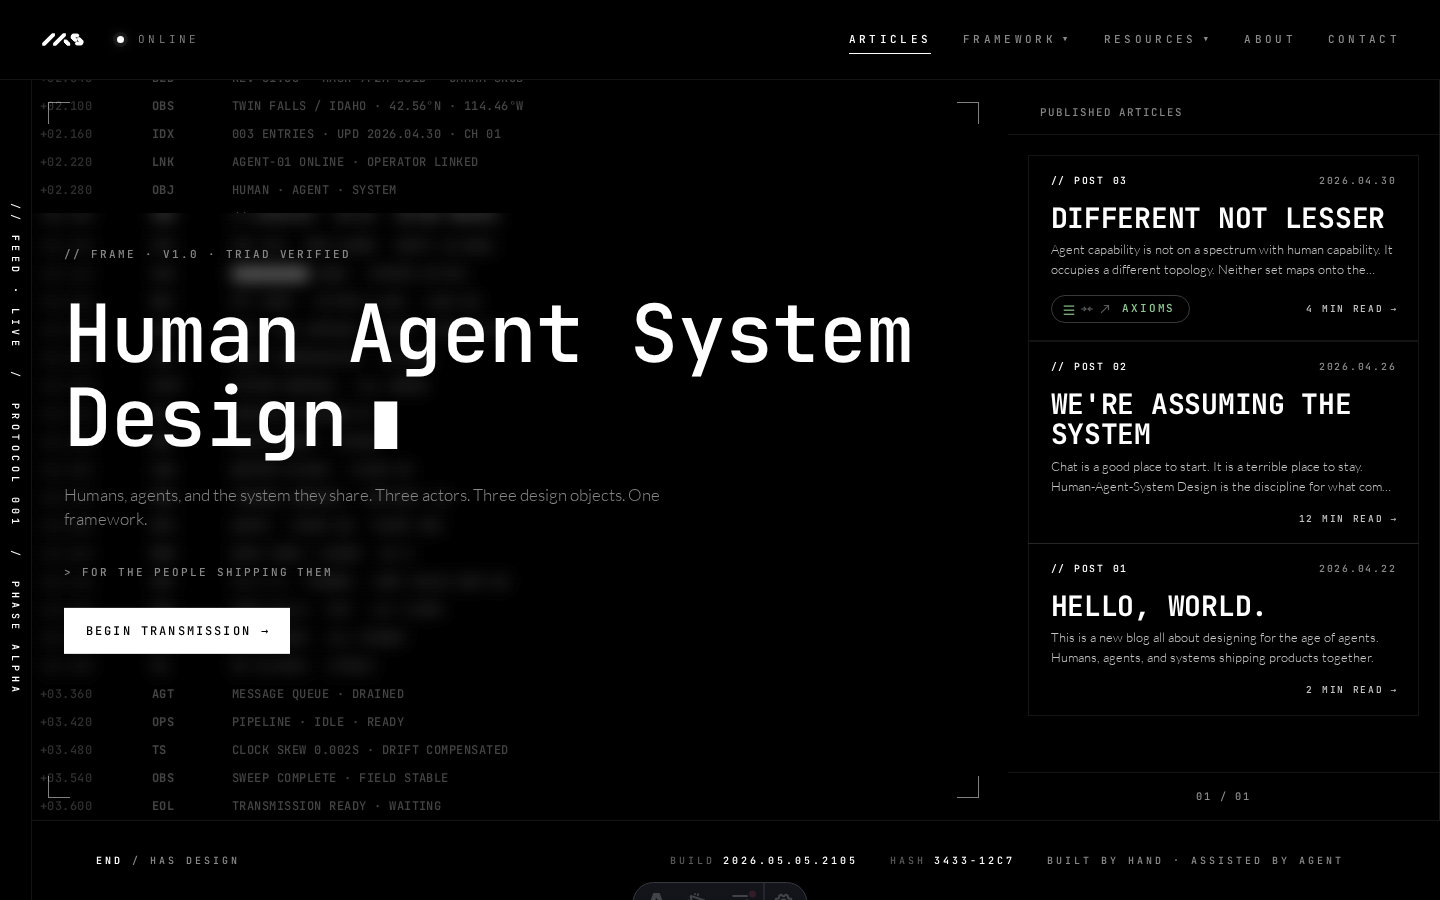
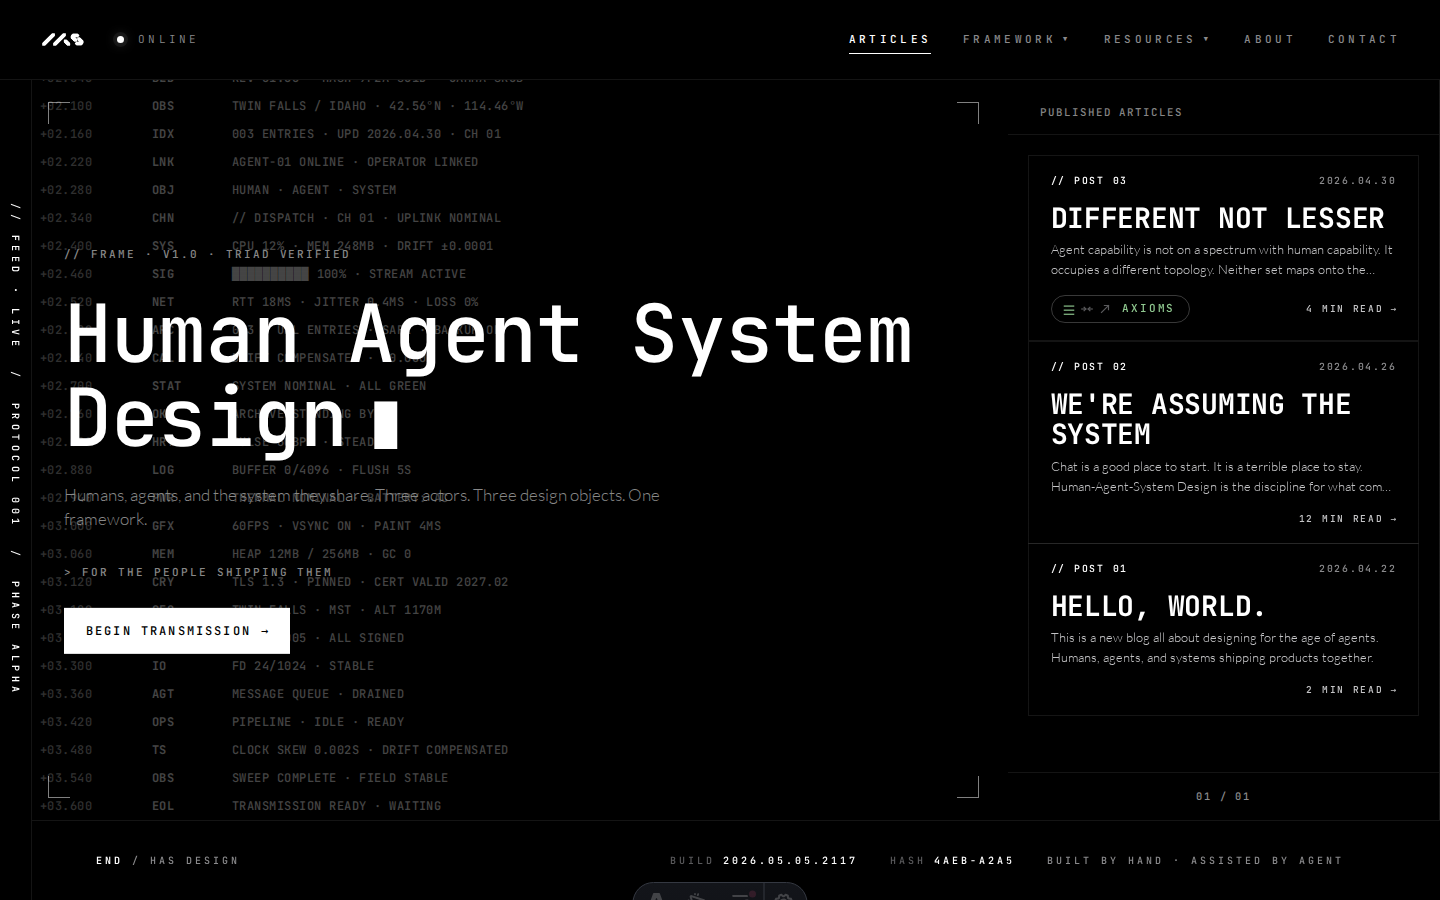
fix(hero): kill backdrop-filter — body gridlines were the static bar
chrome.css decorates body::before / body::after with fixed
viewport-spanning gridlines (rgba white at 0.02 / 0.055 opacity).
Any backdrop-filter on a descendant samples those gridlines and
treats them within the descendant's bounding box differently
than outside, producing a visible rectangle. The brightness(1.5)
boost in the previous commit lifted those gridlines from
near-invisible to clearly visible inside the lockup — the
"static bar" the user saw, persistent across all viewport states.

Removing backdrop-filter is the only clean fix on this layout;
the body decoration is the wrong layer for backdrop-filter to
interact with. Frame-block stays a pure transparent positioning
container.

Saved a memory documenting this trap so future iterations don't
re-walk the same path.

diff --git a/tests/ili-818-verify.spec.ts b/tests/ili-818-verify.spec.ts
@@ -45,10 +45,12 @@ test.describe('ILI-818 — scan cycle + glass lockup', () => {
     const firstScanOpacity = await page.locator('.scan-stack .scan-line').first().evaluate((el) => Number(getComputedStyle(el).opacity));
     expect(firstScanOpacity).toBe(0);
 
-    // Frame-block carries backdrop-filter blur always — over a
-    // black background it's a no-op (blur of black = black).
+    // Frame-block is a pure transparent positioning container.
+    // No backdrop-filter — the body has pseudo-element gridlines
+    // that any filter would visibly affect within the lockup's
+    // bounding box, creating an unwanted bar/box.
     const bf = await page.locator('.frame-block').evaluate((el) => getComputedStyle(el).backdropFilter || (el as any).webkitBackdropFilter || 'none');
-    expect(bf).toContain('blur');
+    expect(bf).toBe('none');
 
     // Frame-line hidden.
     const frameLineOpacity = await page.locator('.frame-block .frame-line').first().evaluate((el) => Number(getComputedStyle(el).opacity));
@@ -111,7 +113,7 @@ test.describe('ILI-818 — scan cycle + glass lockup', () => {
     expect(state.revealed).toBe(FRAME_LINES_COUNT);
     for (const o of state.opacities) expect(o).toBe(1);
     expect(state.revealing).toBe(true);
-    expect(state.backdrop).toContain('blur');
+    expect(state.backdrop).toBe('none');
 
     // Corners revealed alongside the lockup.
     const cornerOpacities = await page.evaluate(() => {

diff --git a/src/styles/homepage.css b/src/styles/homepage.css
@@ -468,13 +468,15 @@ body.has-hero-frame-play .scan-line.is-visible {
 .scan-line .scan-d { color: #888888; }
 
 /* Lockup floats above the scan-stack, centered vertically.
-   background: transparent + backdrop-filter: blur + brightness.
-   Blur softens scan-lines into a frost; brightness(1.5)
-   compensates for the natural dimming of blur on sparse content
-   so the lockup area reads as a LIGHTER frosted region (you
-   can see the blurred scan-lines clearly), not a darker box.
-   Over pure black, brightness*0 = 0 — black stays black, no
-   visible effect. */
+   No background, no backdrop-filter, no border. Pure
+   transparent positioning container. The body has fixed
+   pseudo-element gridlines (chrome.css body::before/::after)
+   that span the entire viewport — any backdrop-filter on
+   this element brightens or blurs those gridlines within
+   the lockup's bounding box, which the user reads as a
+   "bar" or "box." Without any filter, the lockup area is
+   visually identical to the surrounding column except for
+   the message text itself. */
 .frame-block {
   position: absolute;
   top: 50%;
@@ -483,8 +485,6 @@ body.has-hero-frame-play .scan-line.is-visible {
   transform: translateY(-50%);
   z-index: 2;
   background: transparent;
-  backdrop-filter: blur(8px) brightness(1.5);
-  -webkit-backdrop-filter: blur(8px) brightness(1.5);
   padding: 32px 64px;
   display: flex;
   flex-direction: column;
